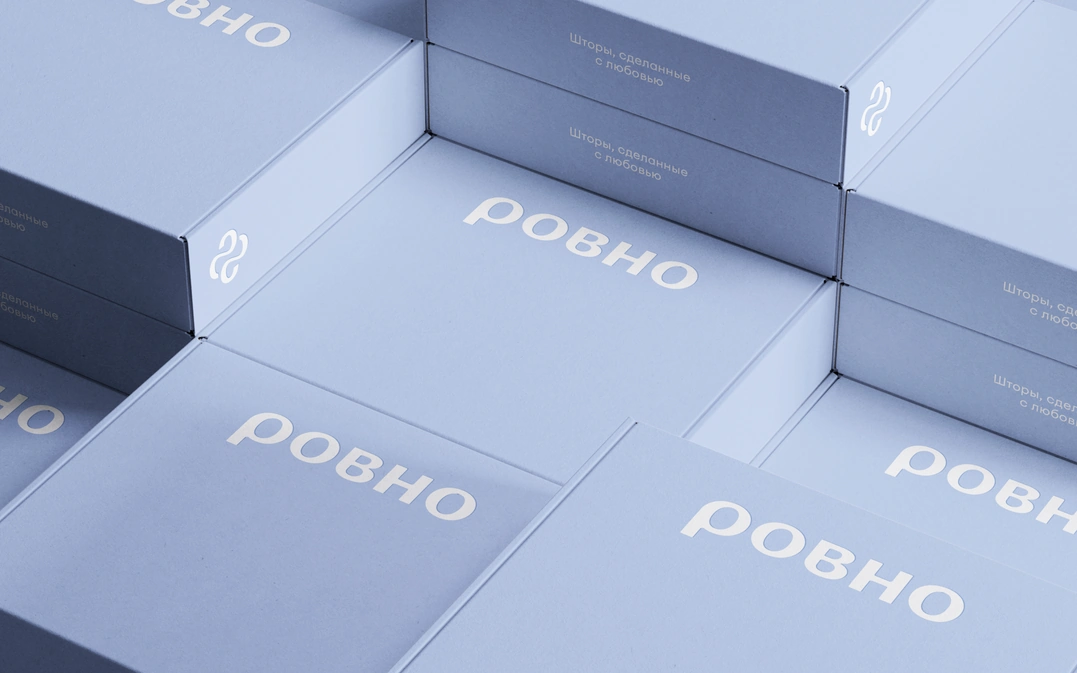
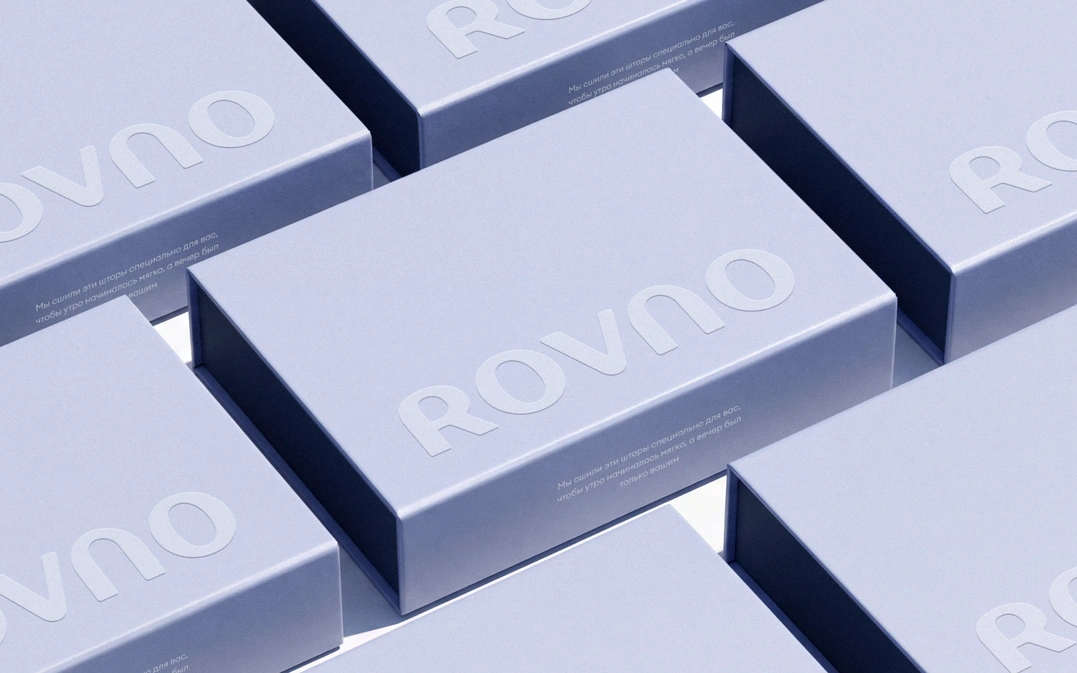
Rovno home cover: new desktop and phone frames
Claude-Session: https://claude.ai/code/session_01MeEtXpgrHiToQSmDEHeNPT

diff --git a/index.html b/index.html
@@ -2509,8 +2509,8 @@
     <article class="project">
       <div class="project__media" data-cursor-label="скоро" data-cursor-label-en="soon" data-cursor-label-ru="скоро" data-cursor-kind="soon">
         <picture>
-          <source media="(max-width: 700px)" srcset="images/cover-08-m.webp">
-          <img loading="lazy" src="images/cover-08.webp" srcset="images/cover-08-1077.webp 1077w, images/cover-08.webp 1920w" sizes="(max-width: 900px) 100vw, 959px" alt="Rovno Home">
+          <source media="(max-width: 700px)" srcset="images/cover-08-m.webp?v=2">
+          <img loading="lazy" src="images/cover-08.webp?v=2" srcset="images/cover-08-1077.webp?v=2 1077w, images/cover-08.webp?v=2 1920w" sizes="(max-width: 900px) 100vw, 959px" alt="Rovno Home">
         </picture>
       </div>
       <div class="project__row">

diff --git a/CLAUDE.md b/CLAUDE.md
@@ -197,7 +197,8 @@ her frames in section `129:3531` «cases covers»: desktop 960×600 at 2x
 the `<picture>` source); `.project__media` is 4:5 on phones like the carousels.
 q per file by the fine-detail test (Rovno 96, App Insiders 90 where the grain
 plateaus, Nadoswap 88, 3I Tech 92–93; Nadoswap desktop and both 3I Tech files re-exported
-later on Nov 23 after her edits, `?v=2`). The old `grid-08…11` files are gone.
+later on Nov 23 after her edits, `?v=2`). Rovno re-done Nov 25 from `138:13010` (desktop)
+and `145:488` (phone), q94, `?v=2`. The old `grid-08…11` files are gone.
 
 **Phone home (≤700px, Nov 19, after actualsource.work).** 15px (.9375rem)
 gutters, topbar logo on the same line; covers full width at 16:10 like desktop (carousels are 4:5 on phones since
